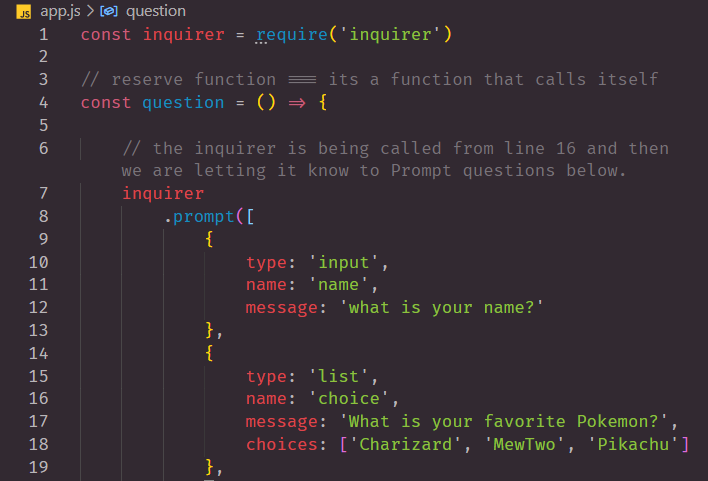
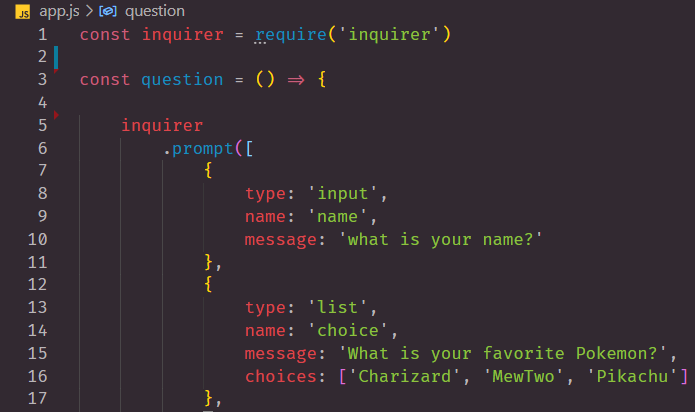
README - status 200

diff --git a/app.js b/app.js
@@ -1,9 +1,7 @@
 const inquirer = require('inquirer')
-
-// reserve function === its a function that calls itself 
+ 
 const question = () => {
 
-    // the inquirer is being called from line 16 and then we are letting it know to Prompt questions below.
     inquirer
         .prompt([
             {

diff --git a/README.md b/README.md
@@ -16,26 +16,27 @@
 
 ![npm_i](./video/npm_i.gif)
 
-> Reference Source
+> Source Reference
 - [npm chalk](https://www.npmjs.com/package/chalk)
 - [github chalk-animation](https://github.com/bokub/chalk-animation)
 
 
-## npm i Inquirer
+## npm i inquirer
 
 > Here is an example of how "Inquirer" works.
-    - type in terminal npm i inquirer
+
+> Type in terminal npm i inquirer
 
 ***npm i inquirer***
 
 ![inquirer.png](./photos/inquirer.png)
 
-***Enquirer Example***
+***Inquirer Example***
 
 ![inquirer](./video/inquirer.gif)
 
-> Reference Source
-- [npm chalk](https://www.npmjs.com/package/inquirer)
+> Source Reference
+- [npm inquirer](https://www.npmjs.com/package/inquirer)
 
 ## LINKS
 
